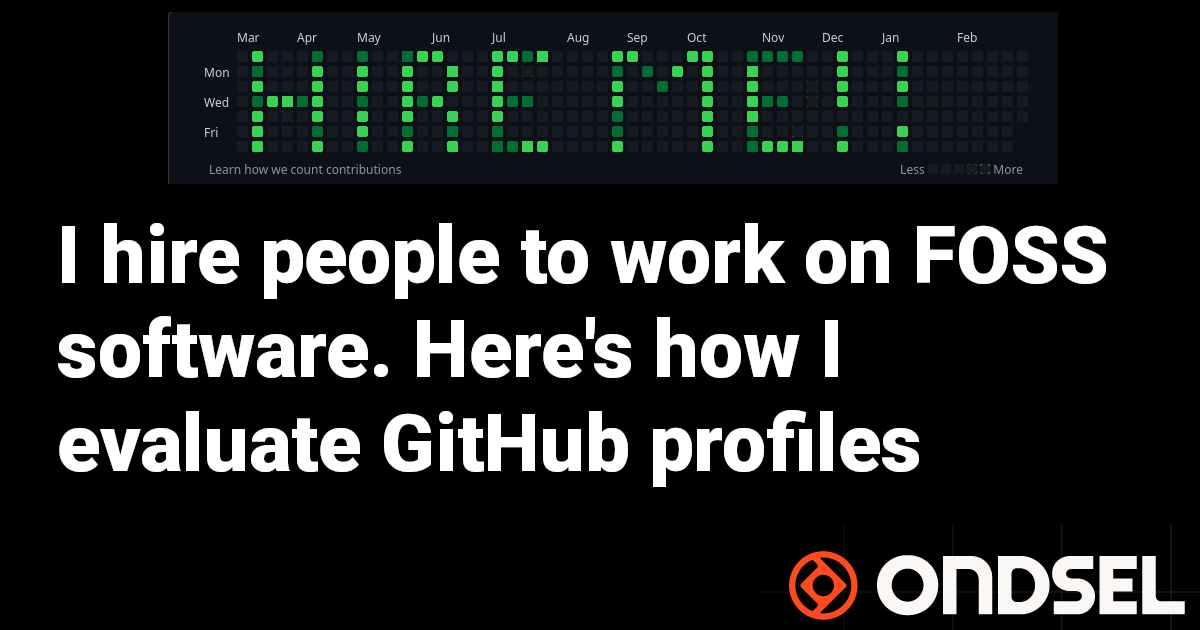
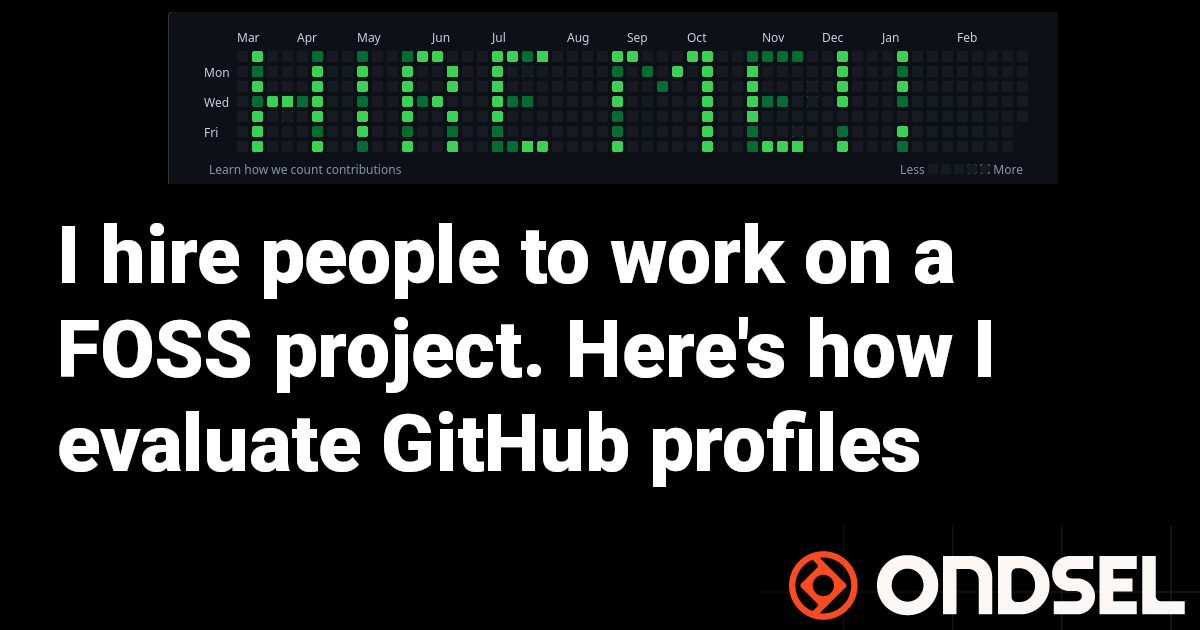
fixes

Changed region(s): [[0.0308, 0.4825, 0.8325, 0.6333], [0.74, 0.3619, 0.925, 0.4524]]

diff --git a/blog/2023-03-02/github-profile.md b/blog/2023-03-02/github-profile.md
@@ -1,6 +1,6 @@
 ---
 slug: evaluating-github-profile
-title: "I hire people to work on FOSS software. Here's how I evaluate GitHub profiles"
+title: "I hire people to work on a FOSS project. Here's how I evaluate GitHub profiles"
 authors:
   - name: Brad Collette
     title: Ondsel Core Team
@@ -14,7 +14,7 @@ authors:
 
 tags: [freecad, development]
 image: ./titlecard.png
-draft: true
+draft: false
 ---
 Should hiring managers base a decision on someone’s GitHub profile? No. But will it ever hurt to have a robust GitHub account? Also no.
 
@@ -32,23 +32,23 @@ But if you’re [recruiting engineers to work on an open source or open core pro
 
 # What you can actually judge from someone’s GitHub profile
 
-## Do they have exposure to FOSS at all?
+### Do they have exposure to FOSS at all?
 
 First, we have to acknowledge the difference between hiring for a closed-source, proprietary product and open source software: If you’re a hiring manager for the former, basing your hiring decisions on someone’s OSS contributions is short sighted and [could be harmful](https://about.gitlab.com/blog/2018/11/16/hiring-based-on-open-source-contributions-could-be-harmful/). (And if you’re a candidate with no interest in working full time on FOSS, by all means, focus on your proprietary work instead.)
 
 If however you’re in the business of FOSS, and you receive applications from one candidate with a GitHub account and one without, you are going to have a lot more to go on when assessing the first. I am always going to lean towards working with people who already engage with open source in some manner and are used to working transparently and engaging with a community. Having a GitHub account and forking even one project is the bare minimum someone can do to show they have experience here. Of course that’s going to influence my hiring.
 
-## What are their interests?
+### What are their interests?
 
 There are plenty of TikToks out there showing people how to optimize their resumes with keywords from the descriptions of jobs they’re applying for. It’s easy to stuff your CV with recruiter bait. Of course there are ways to uncover grifters in your hiring process. What is much harder to fabricate is a history of following open source projects, submitting issues, bug reports, and pull or merge requests, and engaging with communities. I’m looking for team members who share [my vision for making design tools accessible](https://opencoreventures.com/blog/2023-01-ondsel-freecad-launch/) and it’s much easier to establish whether someone cares about this mission if they’re following and interacting with related project.
 
 If you’re hiring someone to do this kind of work on your project, you couldn’t ask for better signal than that.
 
-## How do they collaborate with others?
+### How do they collaborate with others?
 
 Beyond any code they contribute, a candidate who participates in OSS will have a history of code review, discussion, and engaging with feedback. Do they take suggestions on board, do they offer feedback and coaching to others? Sure, this requires a bit more attention than simply scanning a contribution graph, but it’s hard to replicate this kind of window into a candidate’s experience and conduct from interviews alone.
 
-## Do they have something to offer other than code?
+### Do they have something to offer other than code?
 
 Let’s revisit this idea of “updating a readme file” reflecting in someone’s GitHub graph. We’ll leave aside for now that they could automate updates using a cronjob or script (which, depending on the role you’re hiring for, could actually show the initiative and creativity that you’re looking for). Editing and updating documentation is a contribution that takes work and initiative, and we should encourage this too. Having non-programmers participate in your open source project is valuable and we only make it more intimidating when we assign greater value to code contributions than other activities that result in green squares.
 
